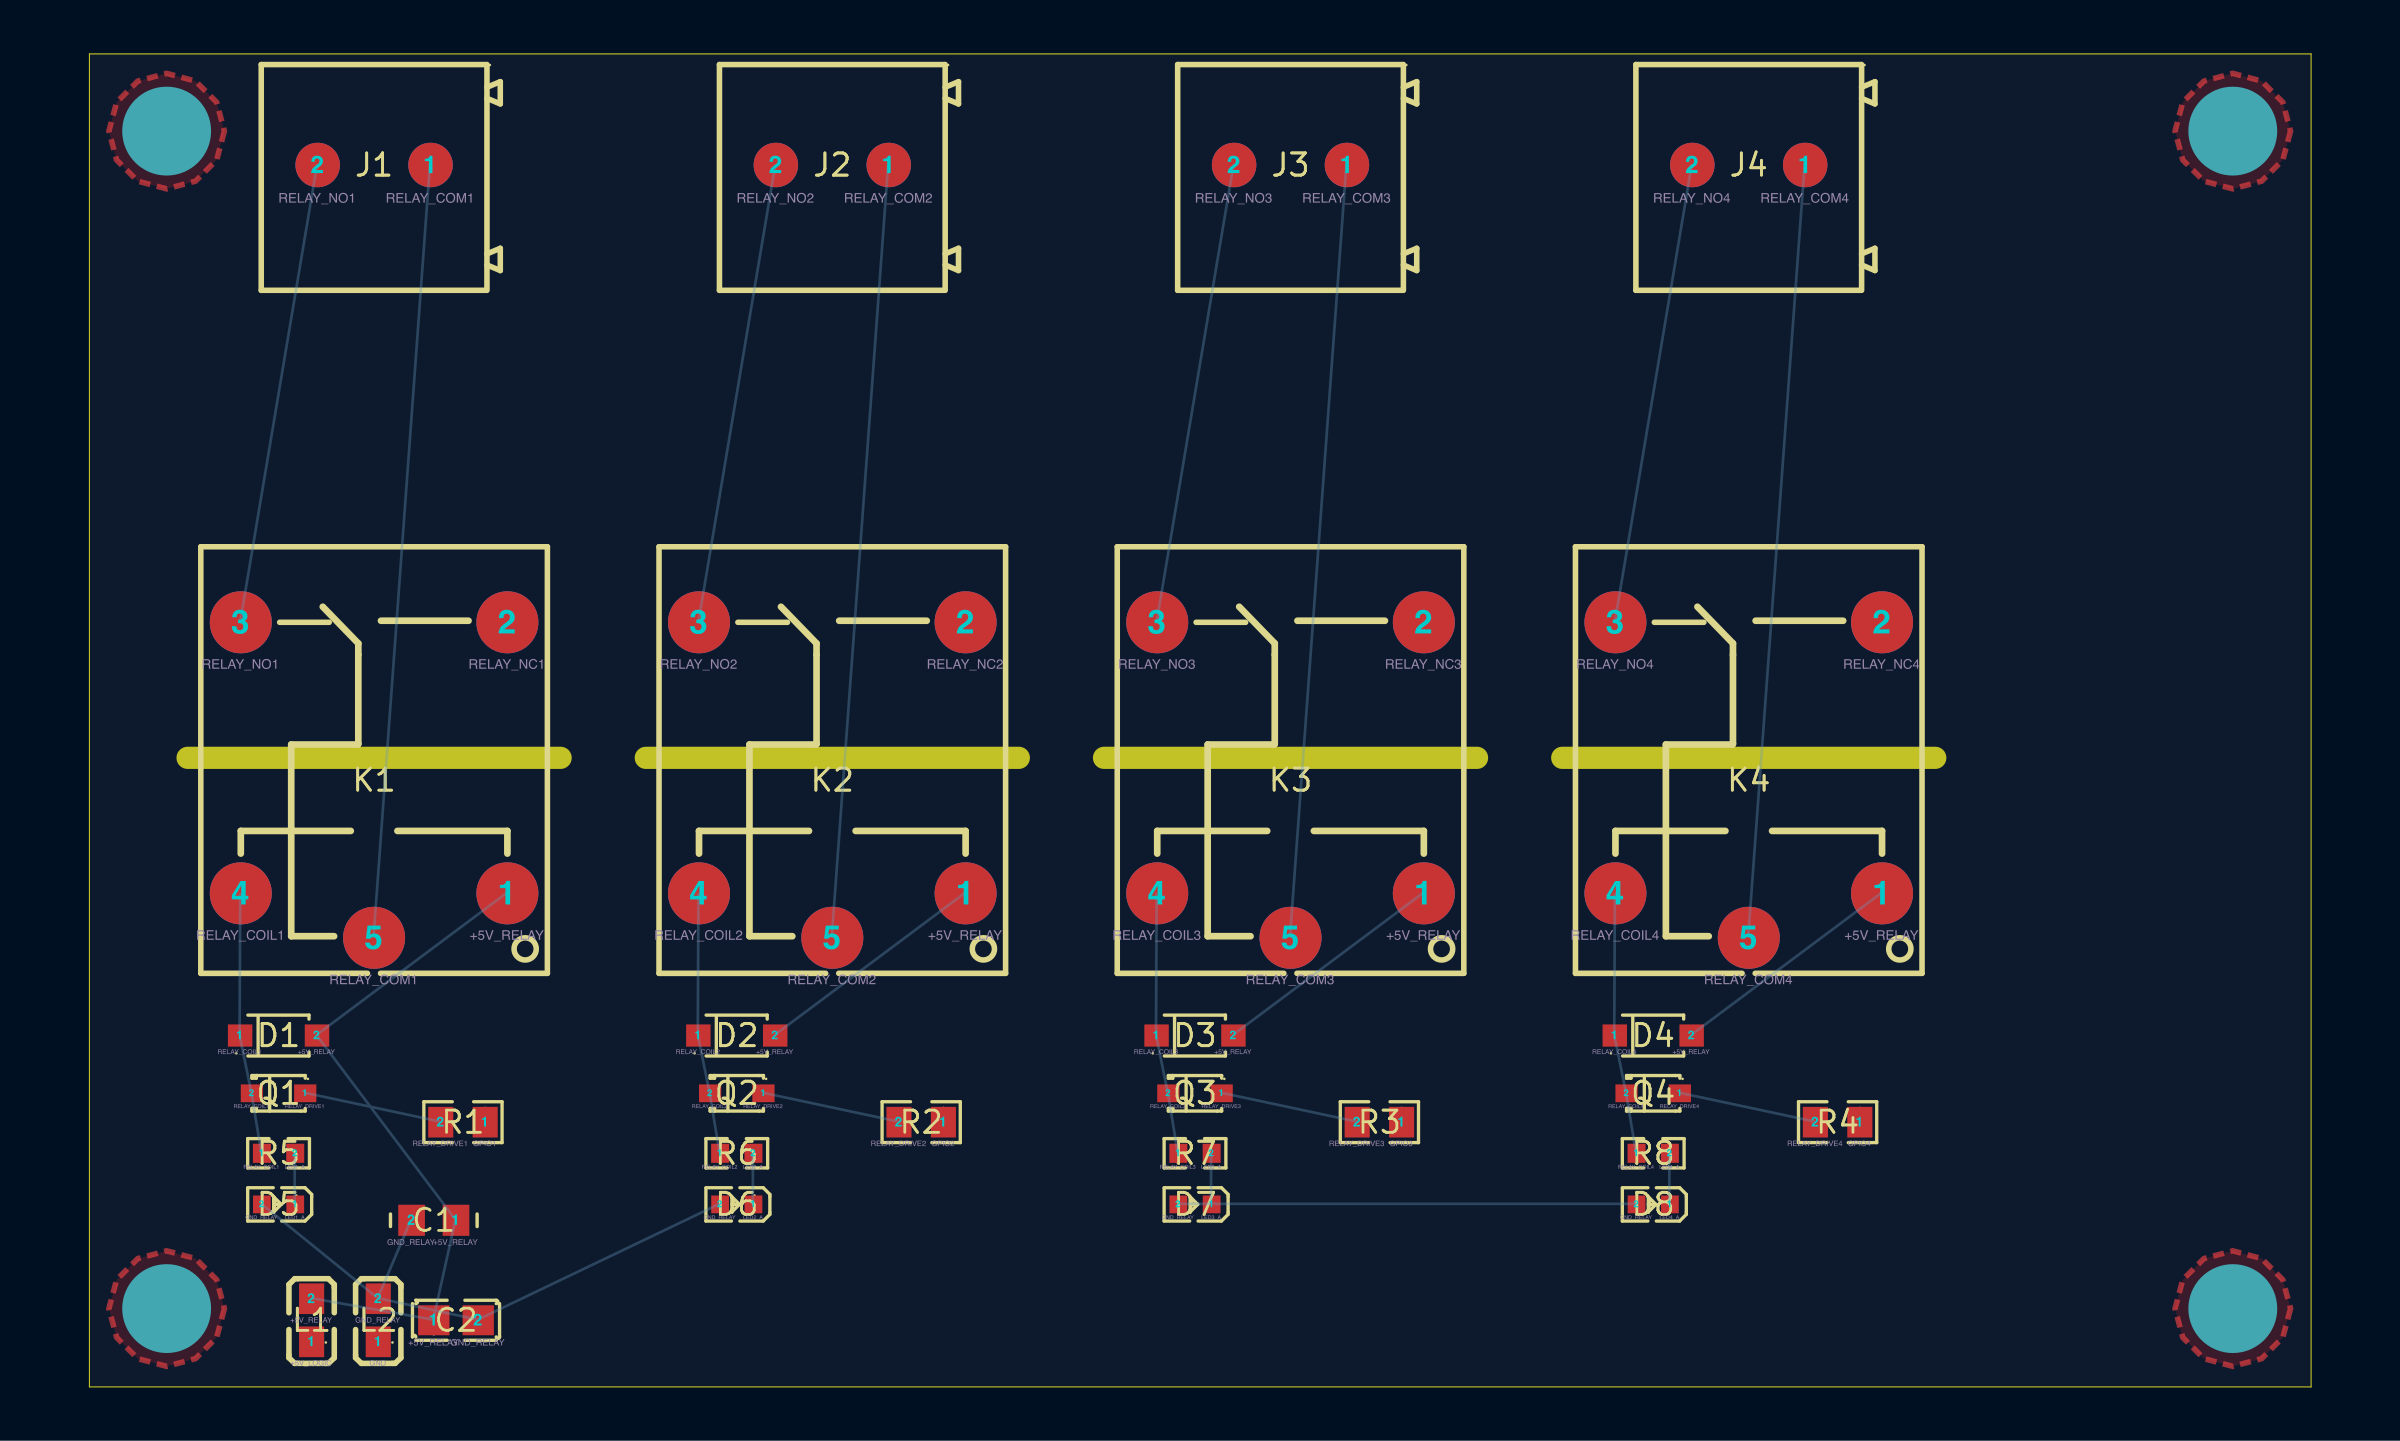
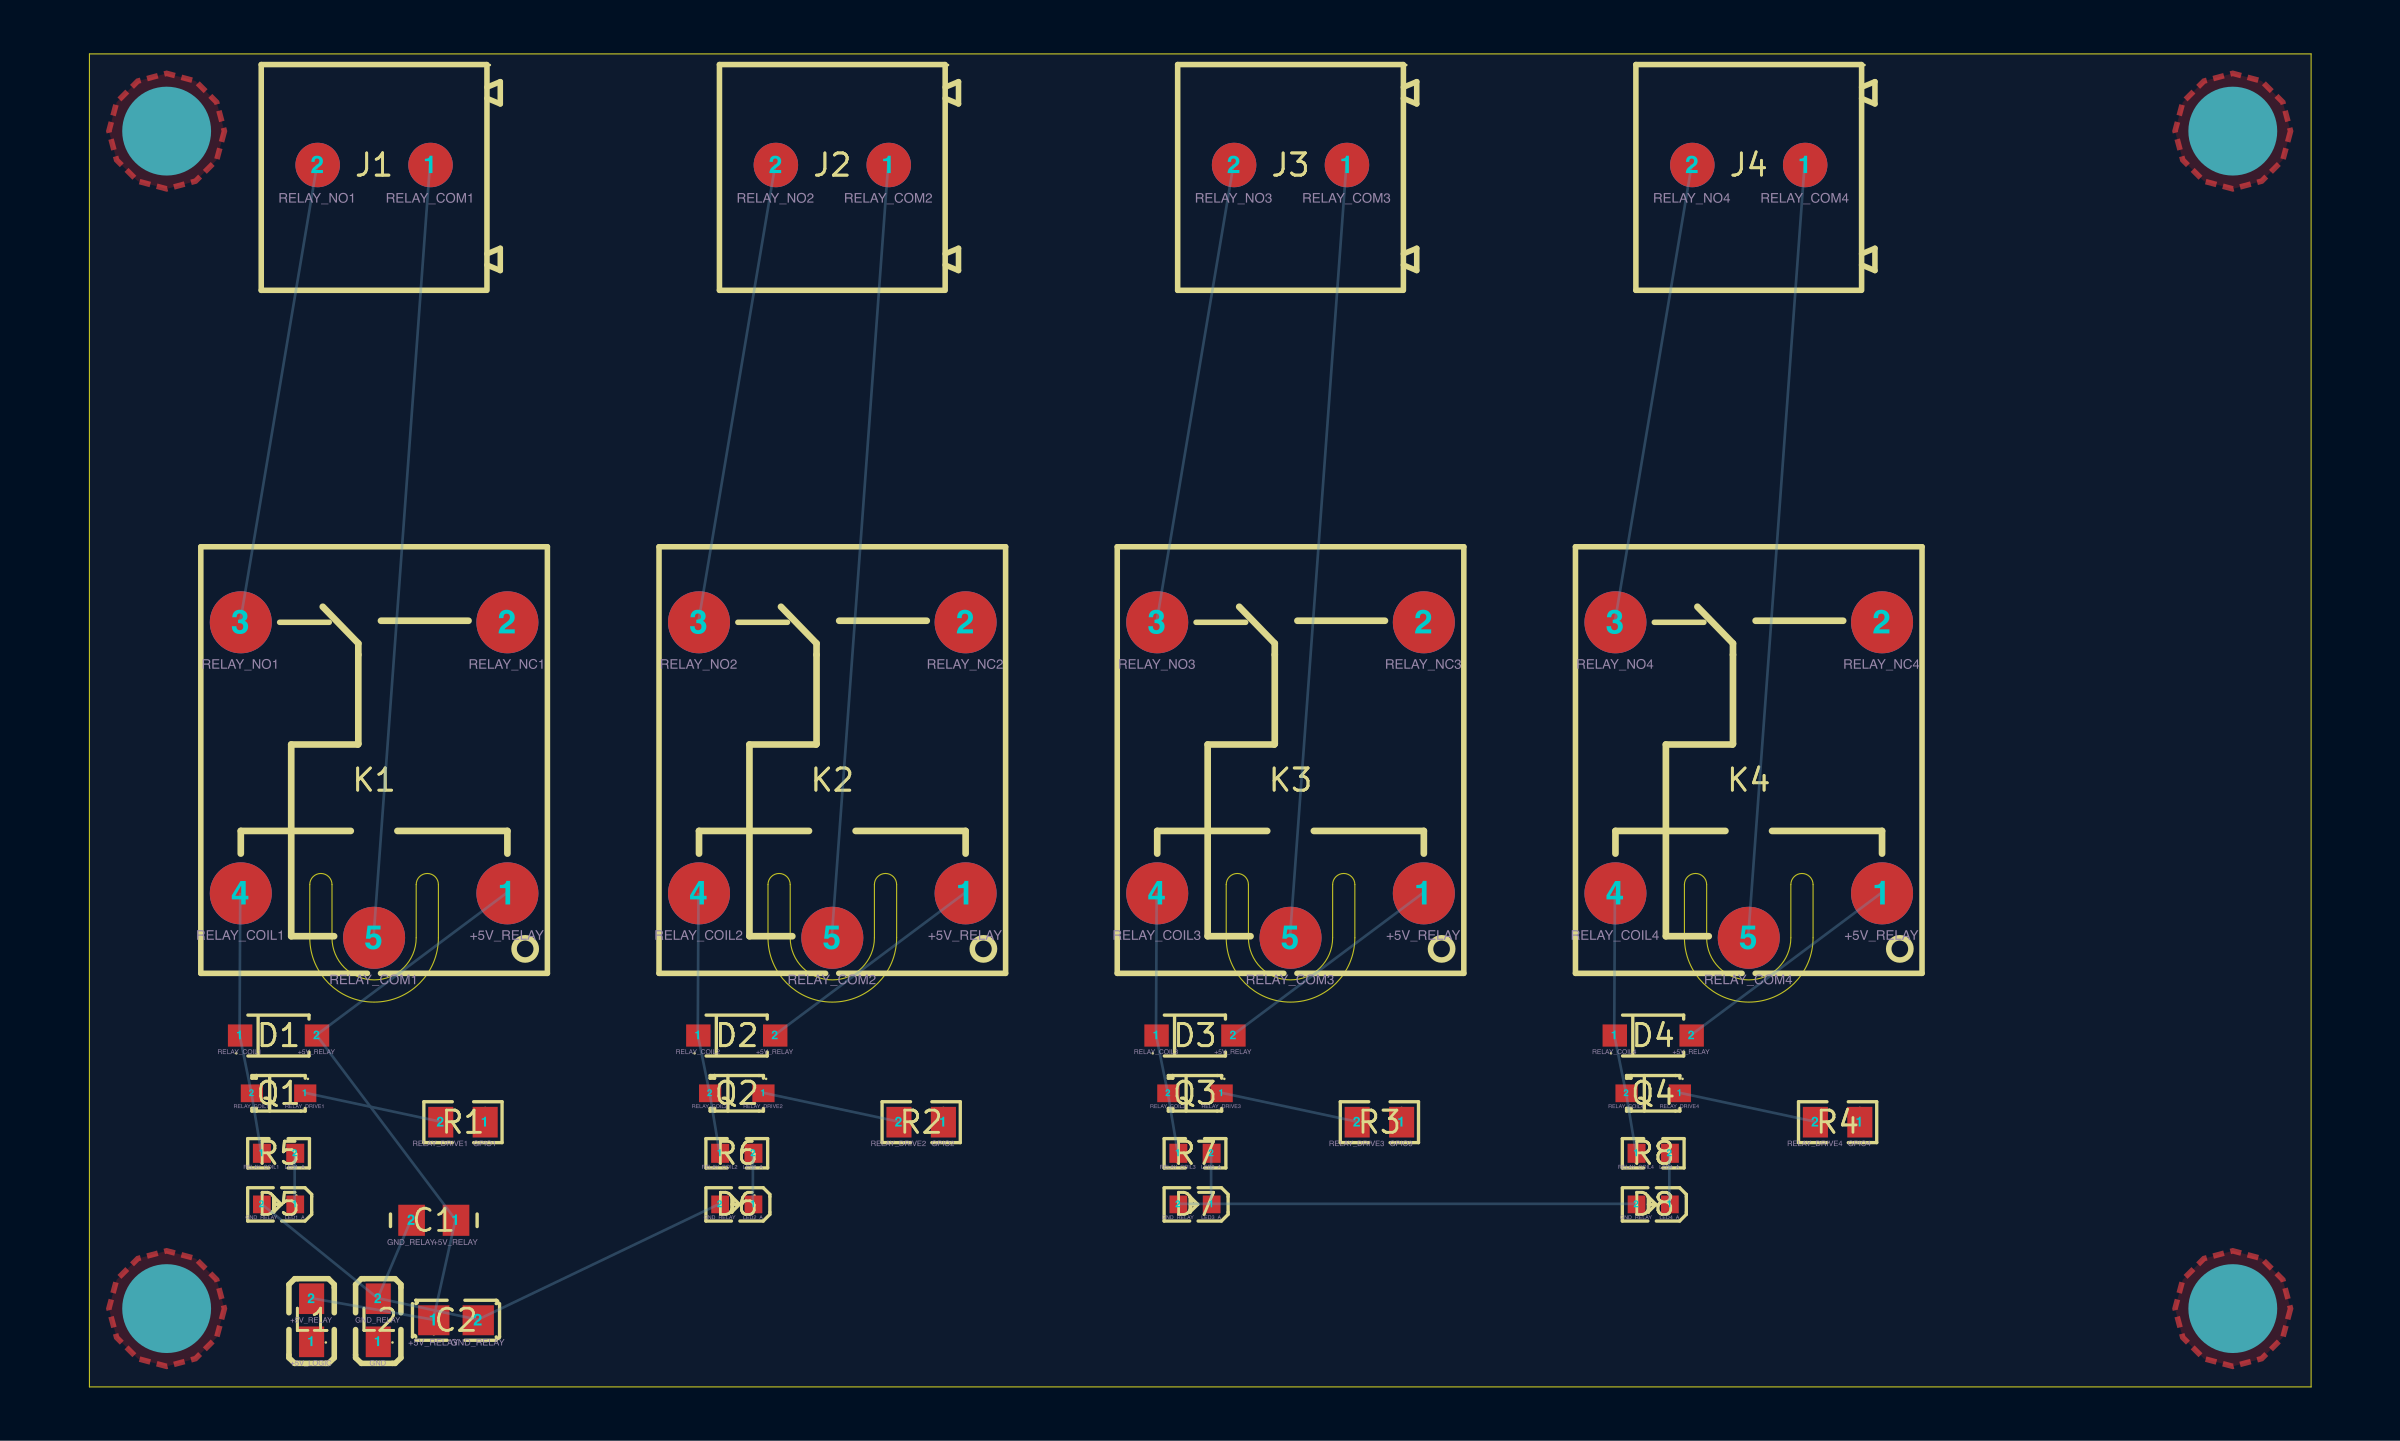
fix(pcb): proper routed slot for relay creepage isolation
Two nested outlines (inner + outer walls) with semicircular arcs
and end caps form a 1mm-wide milled channel around the coil pin.
The fabricator routes between the two Edge.Cuts outlines, creating
a physical gap in the substrate without removing the coil pad.

- Inner wall: coil pad radius + 0.5mm
- Outer wall: coil pad radius + 1.5mm
- End caps: small arcs closing the channel at arm tips
- Line width: 0.05mm (thin outline, not routed-width)
- DRC: 0 outline errors, 36 silkscreen clearance (pre-existing)

Changed region(s): [[0.0625, 0.4997, 0.8125, 0.5309]]

diff --git a/src/kicad_pipeline/pcb/footprints.py b/src/kicad_pipeline/pcb/footprints.py
@@ -2761,42 +2761,142 @@ def _postprocess_relay_footprint(fp: Footprint) -> Footprint:
             continue  # drop the blob line
         cleaned.append(g)
 
-    # --- Step 2: compute isolation slot position from pad geometry ---
-    # SRD pinout: 1=Coil+, 4=Coil-, 5=COM (low-voltage side)
-    #             2=NC, 3=NO (high-voltage contact side)
-    coil_pins = {"1", "4", "5"}
-    contact_pins = {"2", "3"}
-
-    coil_xs: list[float] = []
-    contact_xs: list[float] = []
-    all_ys: list[float] = []
+    # --- Step 2: compute U-shaped isolation slot around coil pin ---
+    # The coil pins are low-voltage logic but sit physically adjacent to
+    # high-voltage contact pads (COM, NO, NC).  A small U-shaped
+    # Edge.Cuts routed slot around the coil pin closest to the contacts
+    # provides creepage isolation between mains and logic domains.
+    # The U opens toward the OTHER coil pin (same LV domain) and the
+    # closed wall faces the nearest contact pad.
+    #
+    # KiCad footprint pad semantics (Relay_SPDT_SANYOU_SRD):
+    #   Pad 1=COM, 3=NO, 4=NC  → contact/mains side (high voltage)
+    #   Pad 2=Coil-, 5=Coil+   → coil/logic side (low voltage)
+    contact_pads_xy: list[tuple[float, float]] = []
+    coil_pads_list: list[tuple[str, float, float, float]] = []  # (num, x, y, size)
     for pad in fp.pads:
-        all_ys.append(pad.position.y)
-        if pad.number in coil_pins:
-            coil_xs.append(pad.position.x)
-        elif pad.number in contact_pins:
-            contact_xs.append(pad.position.x)
+        if pad.number in ("1", "3", "4"):
+            contact_pads_xy.append((pad.position.x, pad.position.y))
+        elif pad.number in ("2", "5"):
+            coil_pads_list.append((
+                pad.number, pad.position.x, pad.position.y, pad.size_x,
+            ))
 
-    if coil_xs and contact_xs and all_ys:
-        coil_max_x = max(coil_xs)
-        contact_min_x = min(contact_xs)
-        slot_x = (coil_max_x + contact_min_x) / 2.0
-
-        # Slot spans slightly beyond the outermost pad Y positions.
-        pad_r = max((p.size_x for p in fp.pads), default=2.0) / 2.0
-        y_min = min(all_ys) - pad_r - 1.0
-        y_max = max(all_ys) + pad_r + 1.0
-
-        slot_line = FootprintLine(
-            start=Point(slot_x, y_min),
-            end=Point(slot_x, y_max),
-            layer=LAYER_EDGE_CUTS,
-            width=_RELAY_SLOT_WIDTH,
+    if contact_pads_xy and coil_pads_list:
+        # Find the coil pin closest to any contact pad — that's the one
+        # that needs isolation.
+        contact_cx = sum(x for x, _ in contact_pads_xy) / len(contact_pads_xy)
+        contact_cy = sum(y for _, y in contact_pads_xy) / len(contact_pads_xy)
+        best_coil = min(
+            coil_pads_list,
+            key=lambda c: (c[1] - contact_cx) ** 2 + (c[2] - contact_cy) ** 2,
         )
-        cleaned.append(slot_line)
+        coil_num, coil_x, coil_y, coil_size = best_coil
+        coil_r = coil_size / 2.0
+        clearance = 1.0  # mm from pad edge to slot center
+        u_half = coil_r + clearance
+
+        # The U opens TOWARD the safe side (board edge / other coil pin)
+        # and the arms extend TOWARD the contact pads to block top/bottom
+        # paths between the coil pin and contacts.
+        #
+        #  Contacts side          Coil pin          Safe side (board edge)
+        #       ←─── arms ────┐      ●       ┌──── open ────→
+        #                      │   (coil)     │
+        #       ←─── arms ────┘              └──── open ────→
+        #
+        # The vertical back wall is on the safe side; the arms reach
+        # toward the contacts to block copper paths.
+        if contact_cx > coil_x:
+            # Contacts to the RIGHT → arms extend right, arc on left
+            arc_apex_x = coil_x - u_half   # leftmost point of arc
+            arm_x = coil_x + u_half         # arm tips (toward contacts)
+        else:
+            # Contacts to the LEFT → arms extend left, arc on right
+            arc_apex_x = coil_x + u_half
+            arm_x = coil_x - u_half
+
+        # Routed slot: two nested U-shapes (inner + outer walls) with
+        # closed ends, forming a narrow milled channel in the PCB.
+        # The fabricator mills between the two Edge.Cuts outlines.
+        #
+        #   Outer wall ──╮  ╭── Inner wall
+        #                │  │
+        #     ┌──────────╯  ╰──────────┐  ← end cap (arc)
+        #     │    (channel ~1mm)       │
+        #     └──────────╮  ╭──────────┘  ← end cap (arc)
+        #                │  │
+        #   Outer wall ──╯  ╰── Inner wall
+        #
+        sw = _RELAY_SLOT_WIDTH / 2.0  # half slot width (channel half-width)
+
+        # Inner U (closer to coil pad)
+        inner_r = u_half - sw  # inner radius from coil center
+        inner_apex = arc_apex_x + sw if arc_apex_x < coil_x else arc_apex_x - sw
+        inner_arm = arm_x - sw if arm_x > coil_x else arm_x + sw
+
+        # Outer U (further from coil pad)
+        outer_r = u_half + sw
+        outer_apex = arc_apex_x - sw if arc_apex_x < coil_x else arc_apex_x + sw
+        outer_arm = arm_x + sw if arm_x > coil_x else arm_x - sw
+
+        _lw = 0.05  # thin line width for Edge.Cuts outlines
+
+        slot_lines: list[FootprintLine | FootprintArc] = [
+            # --- Outer wall ---
+            FootprintArc(
+                start=Point(coil_x, coil_y - outer_r),
+                mid=Point(outer_apex, coil_y),
+                end=Point(coil_x, coil_y + outer_r),
+                layer=LAYER_EDGE_CUTS, width=_lw,
+            ),
+            FootprintLine(
+                start=Point(coil_x, coil_y - outer_r),
+                end=Point(arm_x, coil_y - outer_r),
+                layer=LAYER_EDGE_CUTS, width=_lw,
+            ),
+            FootprintLine(
+                start=Point(coil_x, coil_y + outer_r),
+                end=Point(arm_x, coil_y + outer_r),
+                layer=LAYER_EDGE_CUTS, width=_lw,
+            ),
+            # --- Inner wall ---
+            FootprintArc(
+                start=Point(coil_x, coil_y - inner_r),
+                mid=Point(inner_apex, coil_y),
+                end=Point(coil_x, coil_y + inner_r),
+                layer=LAYER_EDGE_CUTS, width=_lw,
+            ),
+            FootprintLine(
+                start=Point(coil_x, coil_y - inner_r),
+                end=Point(arm_x, coil_y - inner_r),
+                layer=LAYER_EDGE_CUTS, width=_lw,
+            ),
+            FootprintLine(
+                start=Point(coil_x, coil_y + inner_r),
+                end=Point(arm_x, coil_y + inner_r),
+                layer=LAYER_EDGE_CUTS, width=_lw,
+            ),
+            # --- End caps (close the channel at arm tips) ---
+            FootprintArc(
+                start=Point(arm_x, coil_y - outer_r),
+                mid=Point(arm_x + sw if arm_x > coil_x else arm_x - sw, coil_y - u_half),
+                end=Point(arm_x, coil_y - inner_r),
+                layer=LAYER_EDGE_CUTS, width=_lw,
+            ),
+            FootprintArc(
+                start=Point(arm_x, coil_y + inner_r),
+                mid=Point(arm_x + sw if arm_x > coil_x else arm_x - sw, coil_y + u_half),
+                end=Point(arm_x, coil_y + outer_r),
+                layer=LAYER_EDGE_CUTS, width=_lw,
+            ),
+        ]
+        cleaned.extend(slot_lines)
         _log.info(
-            "Relay %s: added Edge.Cuts isolation slot at x=%.1f (y %.1f..%.1f)",
-            fp.ref, slot_x, y_min, y_max,
+            "Relay %s: U-shaped isolation slot around coil pad %s at (%.1f, %.1f), "
+            "closed wall toward contacts, opens %s",
+            fp.ref, coil_num, coil_x, coil_y,
+            "left" if contact_cx > coil_x else "right",
         )
     else:
         _log.warning(
